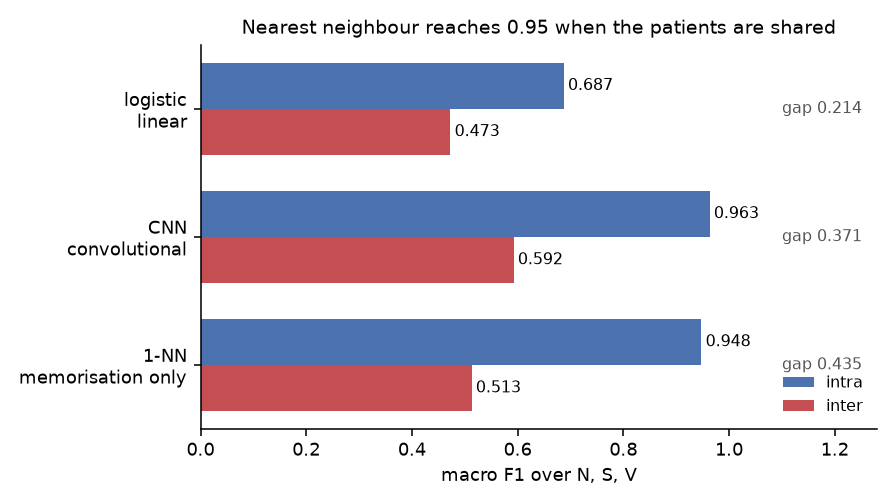
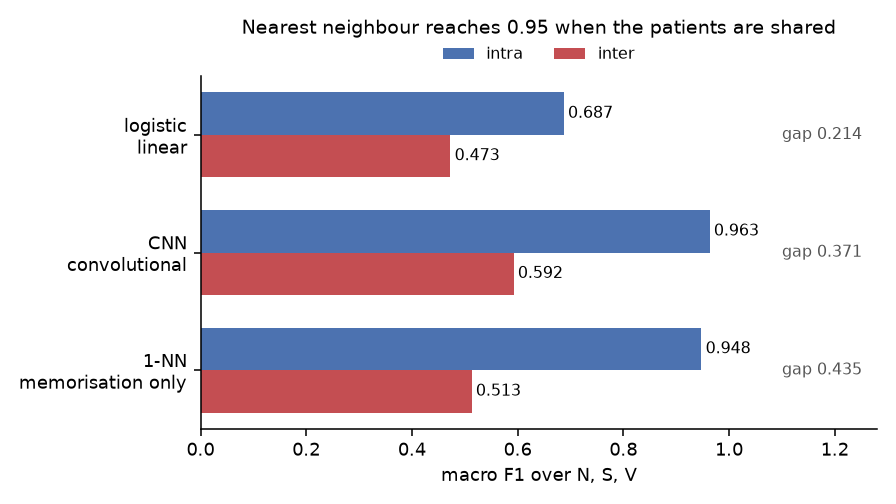
refine figures

diff --git a/analysis/figures.py b/analysis/figures.py
@@ -194,13 +194,22 @@ def figure_per_record(data, out):
     table = pd.DataFrame(rows).sort_values("accuracy")
 
     fig, axis = plt.subplots(figsize=(7.2, 3.4))
-    colours = ["#C44E52" if a < 0.95 else "#4C72B0" for a in table.accuracy]
+    # The three recordings the title names, and only those, are highlighted.
+    errors = (1 - table.accuracy) * table.n
+    weakest = set(errors.nlargest(3).index)
+    share = errors.nlargest(3).sum() / errors.sum()
+    colours = ["#C44E52" if i in weakest else "#4C72B0" for i in table.index]
     axis.bar(range(len(table)), table.accuracy, color=colours)
     axis.set_xticks(range(len(table)))
     axis.set_xticklabels(table.record, rotation=90, fontsize=7)
-    axis.axhline(table.accuracy.median(), color="k", lw=0.7, ls="--")
-    axis.text(len(table) - 0.5, table.accuracy.median() + 0.012,
-              f"median {table.accuracy.median():.3f}", ha="right", fontsize=8)
+    median = table.accuracy.median()
+    axis.axhline(median, color="k", lw=0.7, ls="--")
+    # Left of the chart the bars sit below the median line, so the label is clear.
+    axis.text(-0.4, median + 0.02, f"median {median:.3f}", ha="left", va="bottom",
+              fontsize=8)
+    axis.legend(handles=[plt.Rectangle((0, 0), 1, 1, color="#C44E52")],
+                labels=[f"three weakest: {share:.0%} of all errors"],
+                loc="lower right", fontsize=8)
     axis.set_ylim(0, 1.05)
     axis.set_ylabel("accuracy")
     axis.set_xlabel("test recording")
@@ -235,9 +244,19 @@ def figure_neff_penalty(data, out, counts):
     axis.scatter(neff, penalty, s=70,
                  color=[palette[sym] for sym in CLASS_SYMBOLS], zorder=3)
     for x, y, symbol in zip(neff, penalty, CLASS_SYMBOLS):
-        axis.annotate(f"  {symbol}  (N_eff {x:.2f})", (x, y), fontsize=8, va="center")
+        axis.annotate(f"  {symbol}  ($N_{{\\mathrm{{eff}}}}$ {x:.2f})", (x, y),
+                      fontsize=8, va="center")
+    # Seed 42 holds record 208 out for validation, so fusion trains at zero
+    # loss weight in this run (report, section 3.3).
+    fusion = CLASS_SYMBOLS.index("F")
+    axis.annotate("zero loss weight in this seed", (neff[fusion], penalty[fusion]),
+                  xytext=(8, -14), textcoords="offset points", fontsize=7,
+                  color="#666666")
     axis.set_xscale("log")
-    axis.set_xlabel("effective contributing records in DS1  (log scale)")
+    axis.set_xticks([1, 2, 5, 10, 20])
+    axis.set_xticklabels(["1", "2", "5", "10", "20"])
+    axis.minorticks_off()
+    axis.set_xlabel("effective contributing records in DS1, $N_{\\mathrm{eff}}$  (log scale)")
     axis.set_ylabel("intra F1 − inter F1")
     axis.set_title("Classes drawn from fewer patients lose more")
     axis.set_xlim(0.9, 40)
@@ -274,8 +293,8 @@ def figure_capacity(data, out):
     axis.set_yticklabels([f"{m[0]}\n{m[3]}" for m in models])
     axis.set_xlim(0, 1.28)
     axis.set_xlabel("macro F1 over N, S, V")
-    axis.set_title("Nearest neighbour reaches 0.95 when the patients are shared")
-    axis.legend(loc="lower right")
+    axis.set_title("Nearest neighbour reaches 0.95 when the patients are shared", pad=22)
+    axis.legend(ncol=2, loc="lower center", bbox_to_anchor=(0.5, 1.0))
     fig.tight_layout()
     fig.savefig(out / "result_capacity.png")
     print("  wrote result_capacity.png")
@@ -308,8 +327,8 @@ def figure_representation(data, out):
     axes[0].set_xticklabels(names, rotation=20, ha="right")
     axes[0].set_ylabel("F1")
     axes[0].set_ylim(-0.04, 1.04)
-    axes[0].set_title("Per class, by representation")
-    axes[0].legend(ncol=4, loc="center left")
+    axes[0].set_title("Per class, by representation", pad=22)
+    axes[0].legend(ncol=4, loc="lower center", bbox_to_anchor=(0.5, 1.0))
 
     total = [scores[n][1] + scores[n][2] for n in names]
     axes[1].bar(x - 0.18, [scores[n][1] for n in names], width=0.36,
@@ -325,15 +344,16 @@ def figure_representation(data, out):
         # seeds did not reproduce. Saying so on the figure stops the point
         # estimate from reading as a counterexample to the text.
         if name == "wide400":
-            axes[1].annotate("1 of 3 seeds", (position, value), textcoords="offset points",
-                             xytext=(0, 20), ha="center", fontsize=7, color="#888888")
+            axes[1].annotate("S from 1 of 3 seeds", (position, value),
+                             textcoords="offset points", xytext=(12, -3), ha="left",
+                             va="center", fontsize=7, color="#888888")
     axes[1].set_xticks(x)
     axes[1].set_xticklabels(names, rotation=20, ha="right")
     # Headroom for the sum line and its labels; the legend sits below them so it
     # does not cover the quantity the panel exists to show.
-    axes[1].set_ylim(0, 1.72)
-    axes[1].set_title("The two ectopic classes, and their sum")
-    axes[1].legend(ncol=3, loc="upper left", bbox_to_anchor=(0.0, 0.78))
+    axes[1].set_ylim(0, 1.62)
+    axes[1].set_title("The two ectopic classes, and their sum", pad=22)
+    axes[1].legend(ncol=3, loc="lower center", bbox_to_anchor=(0.5, 1.0))
 
     fig.tight_layout()
     fig.savefig(out / "result_representation.png")
@@ -436,8 +456,8 @@ def figure_protocols(out):
     axes[1].set_xlabel("recording")
 
     handles = [plt.Rectangle((0, 0), 1, 1, color=c) for c in colours.values()]
-    axes[0].legend(handles, list(colours), ncol=3, loc="upper right",
-                   bbox_to_anchor=(1.0, 1.75))
+    axes[0].legend(handles, list(colours), ncol=3, loc="lower right",
+                   bbox_to_anchor=(1.0, 1.0))
     fig.tight_layout()
     fig.savefig(out / "method_protocols.png")
     print("  wrote method_protocols.png")
@@ -515,7 +535,9 @@ def main():
     if wanted is None or "gap" in wanted:
         figure_protocol_gap(data, args.out, args.reps, rng)
     if wanted is None or "widths" in wanted:
-        figure_bootstrap_widths(data, args.out, args.reps, rng)
+        # A generator of its own, drawing in the same order as analysis.bootstrap,
+        # so the widths shown are exactly those of Table 7.
+        figure_bootstrap_widths(data, args.out, args.reps, np.random.default_rng(args.seed))
     if wanted is None or "records" in wanted:
         figure_per_record(data, args.out)
     if wanted is None or "neff" in wanted:

diff --git a/analysis/calibration.py b/analysis/calibration.py
@@ -241,23 +241,40 @@ def save_reliability_figure(results: dict[str, dict], path: Path) -> None:
     figure, axes = plt.subplots(1, 2, figsize=(11, 4.2))
     floor = 1.0 / len(CLASS_SYMBOLS)
 
+    def short(label: str) -> str:
+        # Run names are long; the protocol is what distinguishes the two curves.
+        parts = label.split("-")
+        return next((p for p in parts if p in ("inter", "intra")), label)
+
+    colours = ["#C44E52", "#4C72B0"]
     axes[0].plot([floor, 1], [floor, 1], "k--", lw=0.8, label="perfect calibration")
-    for label, result in results.items():
+    for index, (label, result) in enumerate(results.items()):
         table = result["table"]
         populated = table[table.n > 0]
-        axes[0].plot(populated.confidence, populated.accuracy, "o-", ms=4,
-                     label=f"{label}  ECE {result['ece']:.3f}")
+        colour = colours[index % len(colours)]
+        axes[0].plot(populated.confidence, populated.accuracy, "-", lw=1.5, color=colour,
+                     label=f"{short(label)}  ECE {result['ece']:.3f}")
+        # A bin holding a handful of predictions can sit anywhere; drawing it
+        # hollow keeps it from reading as evidence.
+        sparse = populated.n < 20
+        axes[0].plot(populated.confidence[~sparse], populated.accuracy[~sparse], "o",
+                     ms=5, color=colour)
+        axes[0].plot(populated.confidence[sparse], populated.accuracy[sparse], "o",
+                     ms=5, mfc="white", color=colour)
     axes[0].set_xlabel("claimed confidence")
     axes[0].set_ylabel("observed accuracy")
     axes[0].set_title("Reliability")
-    axes[0].legend(fontsize=8)
+    axes[0].legend(fontsize=8, loc="lower right", title="hollow: fewer than 20 predictions",
+                   title_fontsize=7)
 
-    width = 0.8 / max(len(results), 1)
     for offset, (label, result) in enumerate(results.items()):
         table = result["table"]
         centres = (table.bin_low + table.bin_high) / 2
-        axes[1].bar(centres + offset * width * 0.05, table.n.fillna(0),
-                    width=(1 - floor) / len(table) * 0.9, alpha=0.55, label=label)
+        bin_width = (1 - floor) / len(table)
+        bar_width = bin_width * 0.9 / max(len(results), 1)
+        shift = (offset - (len(results) - 1) / 2) * bar_width
+        axes[1].bar(centres + shift, table.n.fillna(0), width=bar_width,
+                    color=colours[offset % len(colours)], label=short(label))
     axes[1].set_xlabel("claimed confidence")
     axes[1].set_ylabel("predictions")
     axes[1].set_yscale("log")
